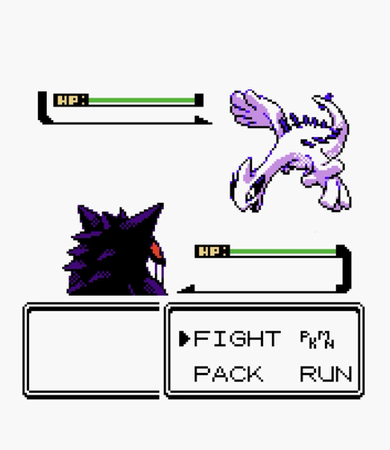
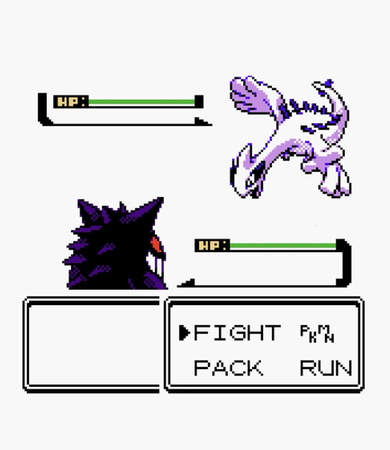
Compact layout: placement per reference, time back to 48x36
- time 48x36 with small seconds; enemy HP box right below
- Lugia back up on the right, starting just below the seconds
- lower half (Gengar, weekday, HP box, menu) moved up 72px (design 390x378)

Claude-Session: https://claude.ai/code/session_018jrHtx9raR1zjrgCZDRoWu

diff --git a/pokemon-watchface/watchface/index.js b/pokemon-watchface/watchface/index.js
@@ -8,8 +8,8 @@ const N = ui.show_level.ONLY_NORMAL
 // Der Block wird von tools/inset_layout.py gesetzt (die Assets sind dort bereits verkleinert).
 // <generated: tools/inset_layout.py>
 const SCALE = 0.9
-const DESIGN_H = 392
-const BOTTOM_DY = -58
+const DESIGN_H = 378
+const BOTTOM_DY = -72
 // </generated>
 const OX = Math.floor((390 - Math.round(390 * SCALE)) / 2)
 const OY = Math.floor((450 - Math.round(DESIGN_H * SCALE)) / 2)
@@ -29,9 +29,9 @@ WatchFace({
   build() {
     ui.createWidget(ui.widget.IMG, { x: 0, y: 0, src: 'bg.png', show_level: N })
 
-    // Uhrzeit oben über die ganze Zeile (24h), Ziffern 56x42 statt 40x30;
+    // Uhrzeit oben links (24h), Ziffern 48x36 statt 40x30;
     // Sekunden klein (24x18) oben rechts neben den Minuten
-    const HH_MM_W = 4 * L(56) + L(21) // tatsächliche Breite der verkleinerten Bilder
+    const HH_MM_W = 4 * L(48) + L(18) // tatsächliche Breite der verkleinerten Bilder
     ui.createWidget(ui.widget.IMG_TIME, {
       hour_zero: 1, hour_startX: X(20), hour_startY: Y(0), hour_array: TIME, hour_space: 0,
       hour_unit_en: 'time/colon.png', hour_unit_sc: 'time/colon.png', hour_unit_tc: 'time/colon.png',

diff --git a/tools/inset_layout.py b/tools/inset_layout.py
@@ -24,14 +24,16 @@ from pathlib import Path
 from PIL import Image
 
 SCALE = 0.9  # Standard; per --scale überschreibbar
-TIME_ZOOM = 7 / 5  # Uhrzeit-Pixel 5px -> 7px (Ziffern 56x42)
+TIME_ZOOM = 6 / 5  # Uhrzeit-Pixel 5px -> 6px (Ziffern 48x36)
 SEC_ZOOM = 3 / 5  # Sekunden-Pixel 5px -> 3px (Ziffern 24x18)
 
-# Kompaktes Layout (Koordinaten im Original-Design). Die Uhrzeit-Zeile ist 42px hoch.
-DESIGN_H = 392  # Höhe des neu zusammengesetzten Designs (statt 450)
-BOX_DY = 10  # Gegner-HP-Box rutscht unter die größere Uhrzeit
-LUGIA_DY = 46  # Lugia rutscht unter die Uhrzeit-Zeile
-BOTTOM_FROM, BOTTOM_DY = 226, -58  # alles ab y=226 (Gengar, HP-Box, Menü) rückt nach oben
+# Kompaktes Layout (Koordinaten im Original-Design), Platzierung nach der Referenz des Users:
+# Uhrzeit (36px hoch) oben links, Gegner-HP-Box direkt darunter, Lugia rechts knapp unter
+# der Sekundenhöhe, darunter Wochentag/HP-Box/Menü ohne großen Leerraum.
+DESIGN_H = 378  # Höhe des neu zusammengesetzten Designs (statt 450)
+BOX_DY = 4  # Gegner-HP-Box rutscht unter die größere Uhrzeit
+LUGIA_DY = 23  # Lugia beginnt knapp unter den Sekunden
+BOTTOM_FROM, BOTTOM_DY = 226, -72  # alles ab y=226 (Gengar, HP-Box, Menü) rückt nach oben
 PIECES = [  # (Ausschnitt im Original, Verschiebung)
     ((0, BOTTOM_FROM, 390, 450), BOTTOM_DY),
     ((15, 33, 219, 81), BOX_DY),  # Gegner-HP-Box

diff --git a/README.md b/README.md
@@ -18,8 +18,8 @@ Jeder Push auf `main` baut neu und aktualisiert die Seite.
 Die Originalgrafiken liegen in `design/original-assets/`. `tools/inset_layout.py --scale 0.9` baut daraus
 die Assets in `pokemon-watchface/assets/default.s/`:
 - kompaktes Layout: Hintergrund aus seinen Bausteinen neu zusammengesetzt (weniger Leerraum in der Mitte,
-  Uhrzeit-Zeile über die volle Breite, Lugia darunter)
-- große Uhrzeit (56x42) mit kleinen Sekunden (24x18) im selben Pixelstil
+  Lugia rechts neben Uhrzeit und Gegner-HP-Box)
+- Uhrzeit (48x36) mit kleinen Sekunden (24x18) im selben Pixelstil, Platzierung nach Referenzbild
 - Wochentage in fetter Pixelschrift, rechtsbündig mit dem Ende der HP-Leiste
 - Schritt-/Akku-Symbole auf Ziffernhöhe
 - alles um `SCALE` verkleinert und mittig gesetzt, damit die runden Display-Ecken nichts abschneiden
